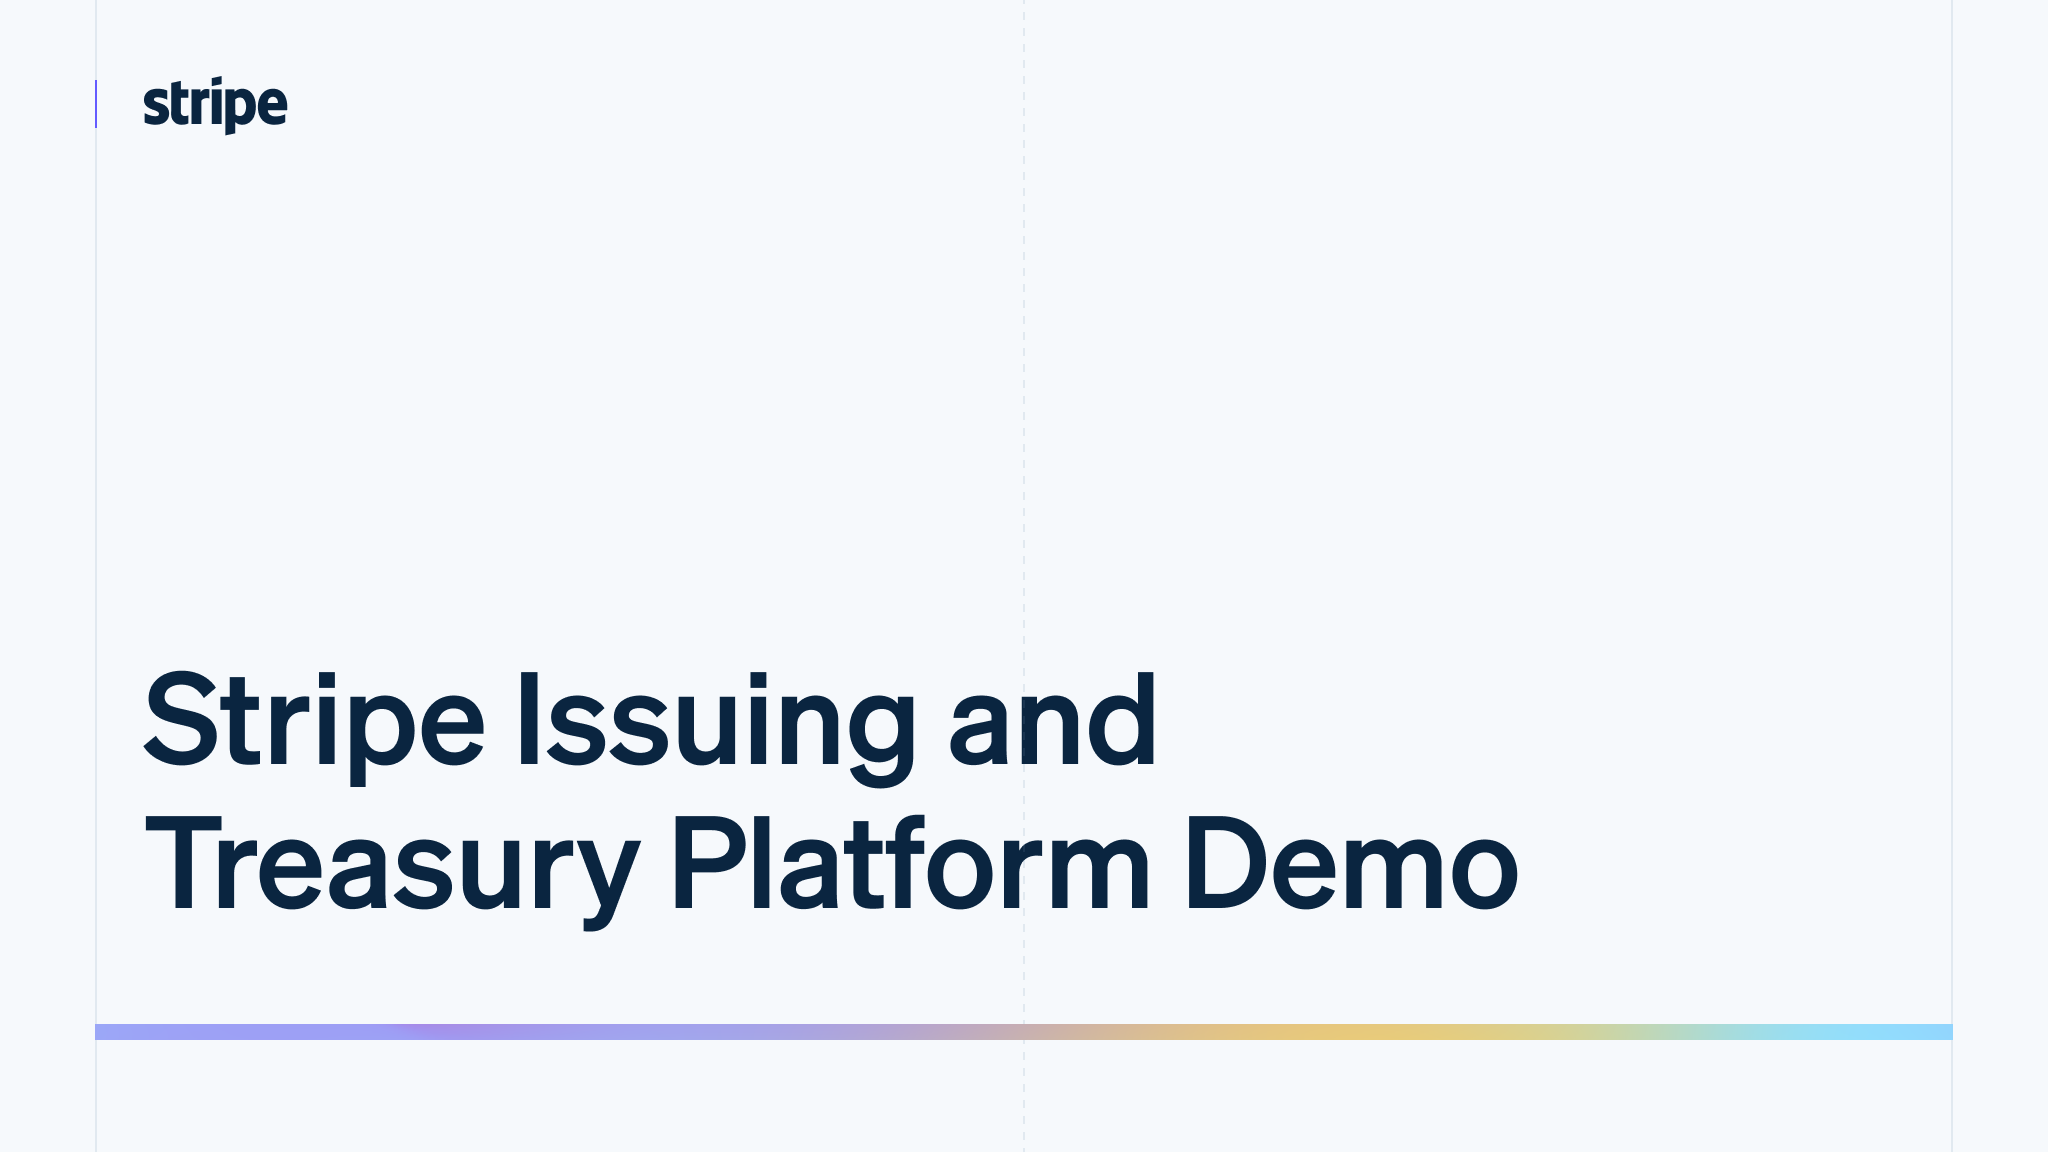
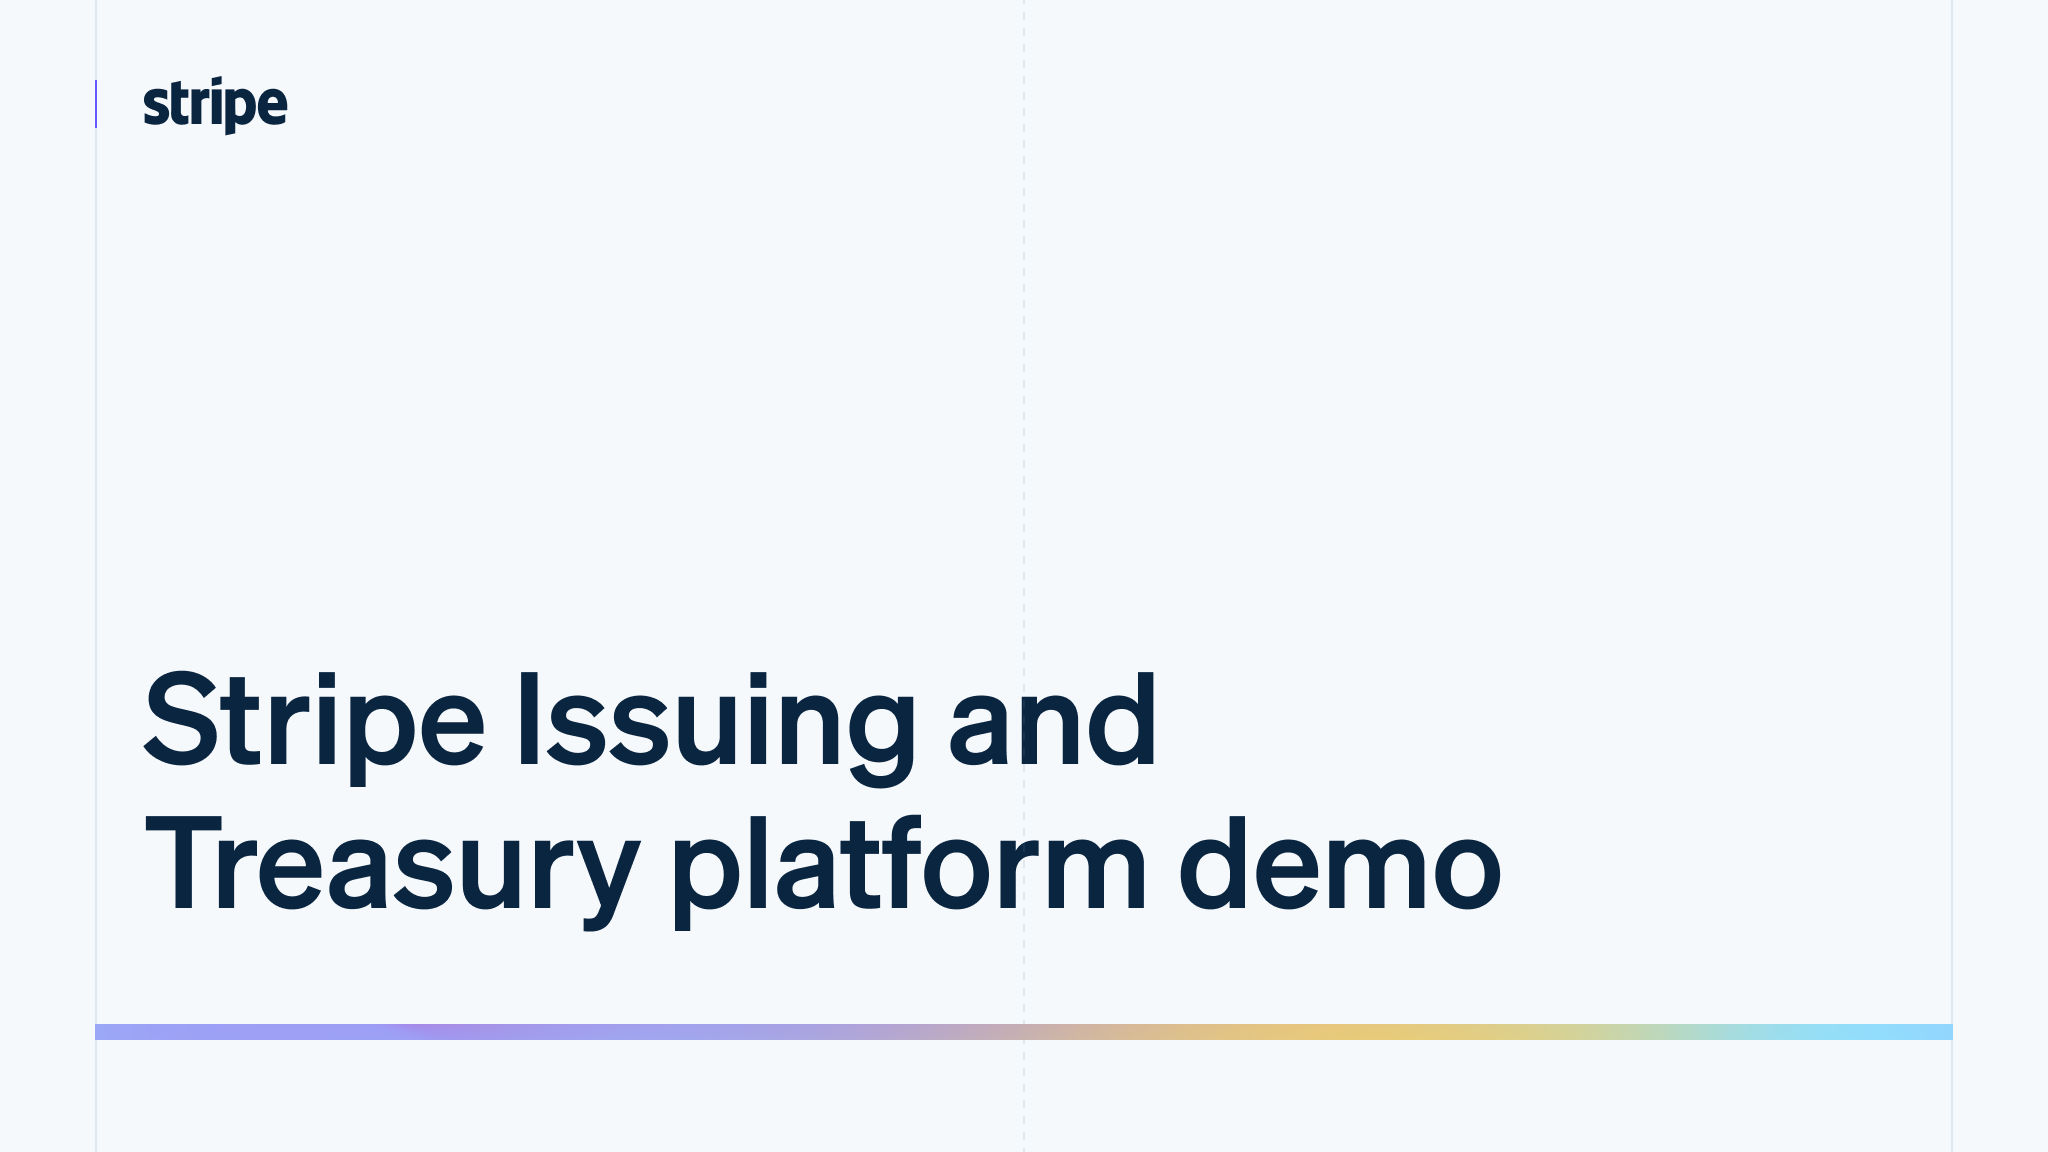
Switch to sentence case

Changed region(s): [[0.3125, 0.6875, 0.75, 0.8125]]

diff --git a/src/pages/_app.tsx b/src/pages/_app.tsx
@@ -38,7 +38,7 @@ export default function App({
   return (
     <CacheProvider value={emotionCache}>
       <Head>
-        <title>Stripe Issuing and Treasury Platform Demo</title>
+        <title>Stripe Issuing and Treasury platform demo</title>
         <meta
           name="viewport"
           content="width=device-width, initial-scale=1, maximum-scale=1"
@@ -47,7 +47,7 @@ export default function App({
         <meta property="og:url" content="https://baas.stripe.dev" />
         <meta
           property="og:title"
-          content="Stripe Issuing and Treasury Platform Demo"
+          content="Stripe Issuing and Treasury platform demo"
         />
         <meta
           property="og:description"
@@ -65,7 +65,7 @@ export default function App({
         <meta name="twitter:url" content="https://baas.stripe.dev" />
         <meta
           name="twitter:title"
-          content="Stripe Issuing and Treasury Platform Demo"
+          content="Stripe Issuing and Treasury platform demo"
         />
         <meta
           name="twitter:description"

diff --git a/src/layouts/dashboard/side-nav.tsx b/src/layouts/dashboard/side-nav.tsx
@@ -100,7 +100,7 @@ export const SideNav = (props: { onClose: () => void; open: boolean }) => {
           textAlign="center"
         >
           <Typography color="neutral.100" variant="subtitle2">
-            Stripe Issuing and Treasury Platform Demo
+            Stripe Issuing and Treasury platform demo
           </Typography>
           <Typography color="neutral.600" variant="subtitle2">
             Data, financial activity and cards are fictitious and for testing

diff --git a/src/layouts/auth/layout.tsx b/src/layouts/auth/layout.tsx
@@ -98,7 +98,7 @@ const TopLogoBar = () => (
 const WelcomeMessage = () => (
   <Stack spacing={3}>
     <Typography variant="h4">
-      Stripe Issuing and Treasury Platform Demo
+      Stripe Issuing and Treasury platform demo
     </Typography>
     <Typography color="neutral.500">
       This web app demonstrates Stripe Issuing and Treasury APIs in an
